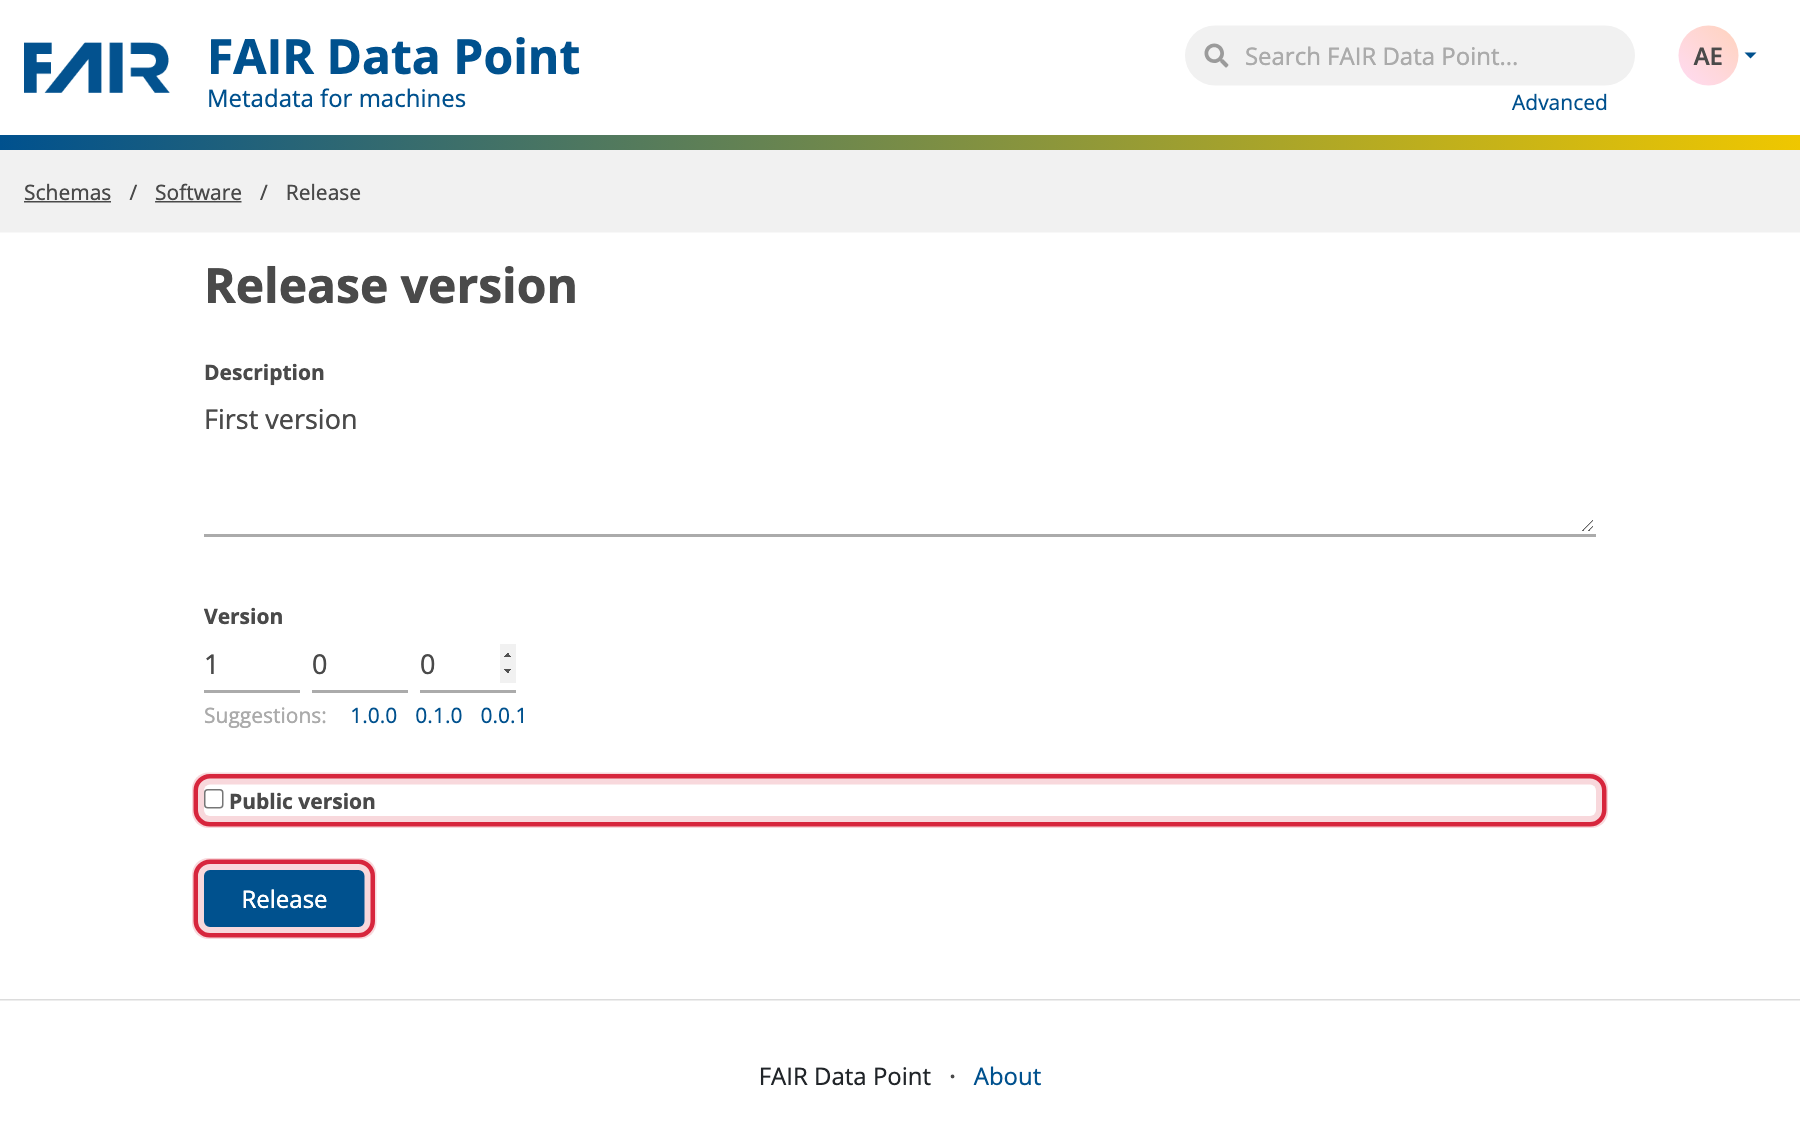
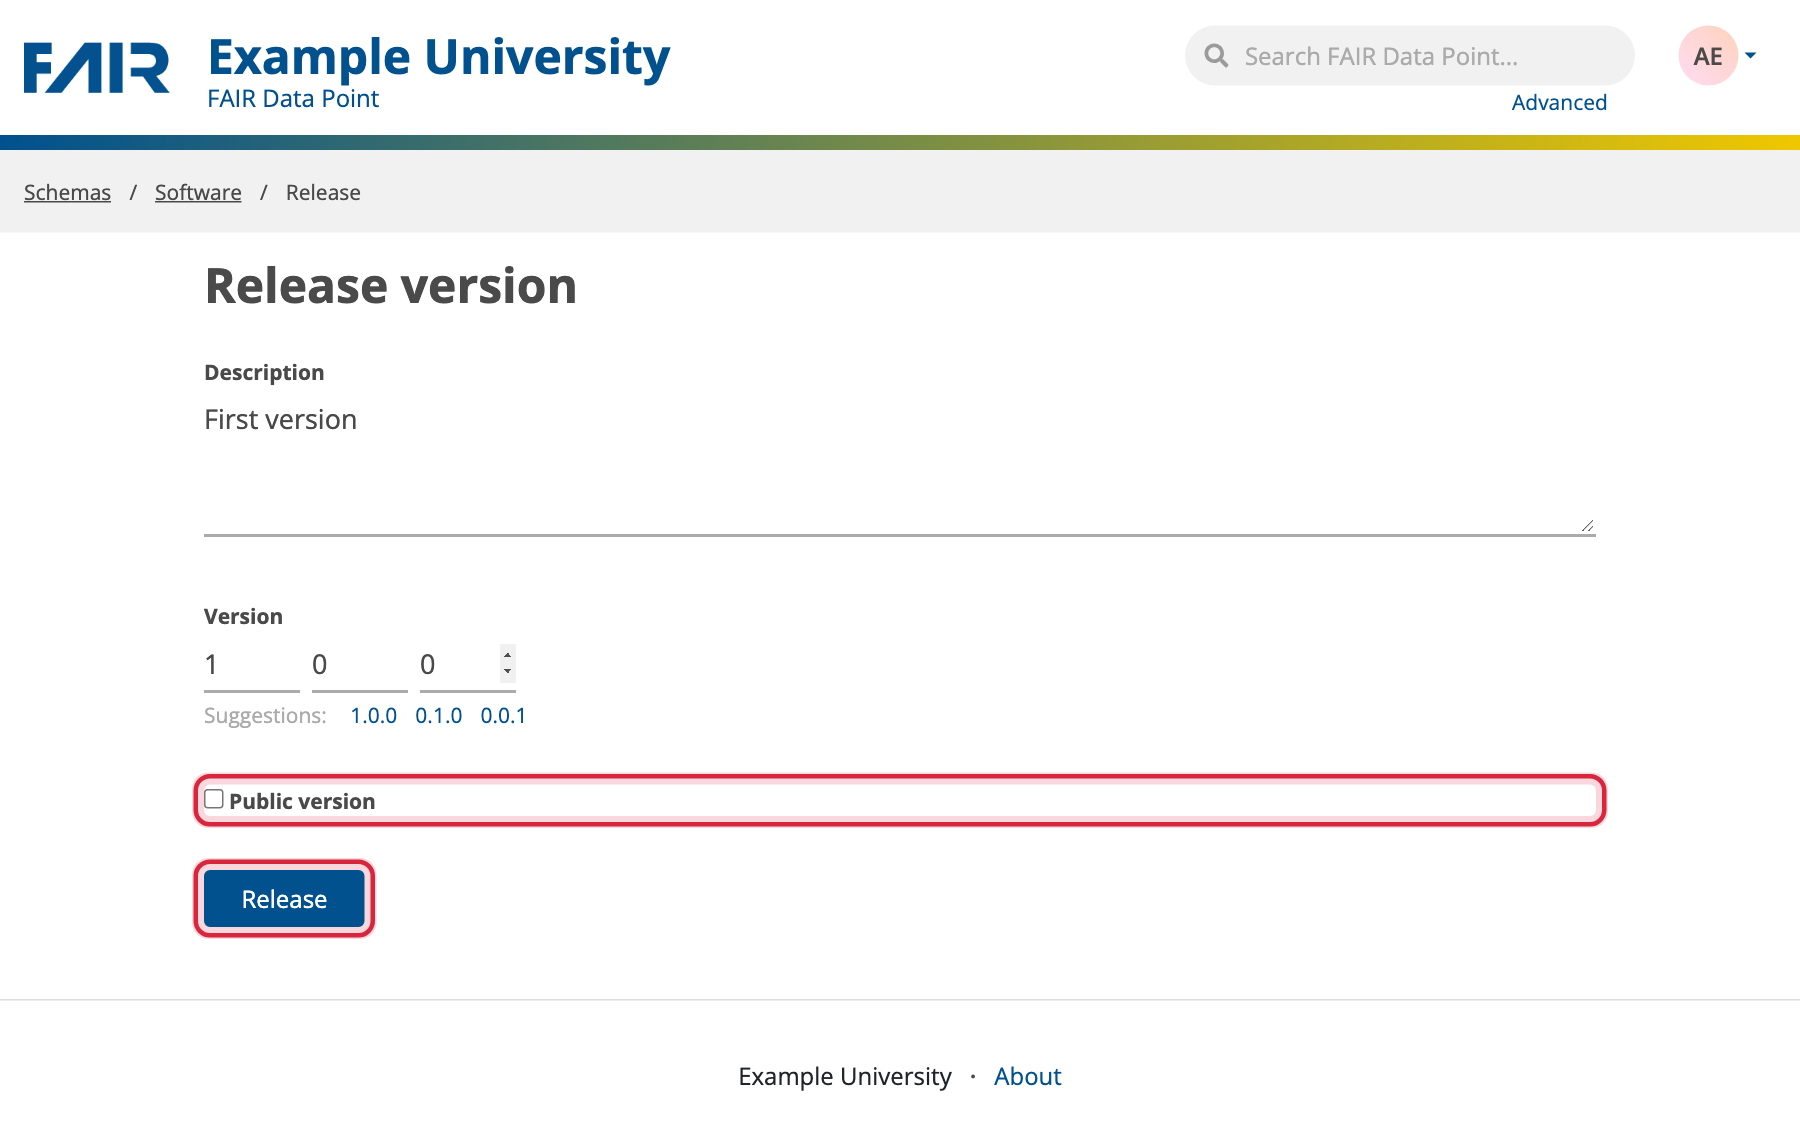
Seed example content before taking the screenshots
The screenshot script now replaces the default root record (lorem ipsum
description, "My FAIR Data Point") with an Example University FDP, sets
the app title in the settings, and creates a published catalog with a
dataset next to the draft catalog used for the Publish step. The
screenshots thereby resemble an FDP in use rather than a fresh deployment.

Changed region(s): [[0.1244, 0.0307, 0.3733, 0.0921], [0.4044, 0.9211, 0.5911, 0.9518]]

diff --git a/scripts/usage-screenshots.py b/scripts/usage-screenshots.py
@@ -43,16 +43,51 @@ HIGHLIGHT_JS = """
 }
 """
 
-CATALOG_TTL = """
+# Example content, so that the screenshots resemble an FDP in use rather than a fresh deployment.
+PREFIXES = """
 @prefix dcat: <http://www.w3.org/ns/dcat#> .
 @prefix dct: <http://purl.org/dc/terms/> .
 @prefix foaf: <http://xmlns.com/foaf/0.1/> .
-<> a dcat:Catalog ;
-    dct:title "Example catalog" ;
-    dct:description "Catalog used for the screenshots in the documentation." ;
+@prefix fdp-o: <https://w3id.org/fdp/fdp-o#> .
+"""
+
+ROOT_TTL = PREFIXES + """
+<> a fdp-o:FAIRDataPoint, fdp-o:MetadataService, dcat:DataService, dcat:Resource ;
+    dct:title "Example University FAIR Data Point" ;
+    dct:description "Metadata of the research datasets and software published by the research groups of Example University. Each catalog belongs to an institute, which maintains its own entries." ;
     dcat:version "1.0" ;
-    dct:publisher [ a foaf:Agent ; foaf:name "Example Organisation" ] ;
+    dct:publisher [ a foaf:Agent ; foaf:name "Example University Library" ] ;
+    dcat:endpointURL <{api}> ;
+    dcat:endpointDescription <{api}/v3/api-docs>, <{api}/swagger-ui.html> .
+"""
+
+PUBLISHED_CATALOG_TTL = PREFIXES + """
+<> a dcat:Catalog ;
+    dct:title "Institute for Climate Studies" ;
+    dct:description "Observational and model data of the Institute for Climate Studies, including the long-term measurement series of the Example Valley field station." ;
+    dcat:version "2.3" ;
+    dct:publisher [ a foaf:Agent ; foaf:name "Institute for Climate Studies, Example University" ] ;
     dct:isPartOf <{api}> .
+"""
+
+DRAFT_CATALOG_TTL = PREFIXES + """
+<> a dcat:Catalog ;
+    dct:title "Materials Science Laboratory" ;
+    dct:description "Measurement data and analysis software of the Materials Science Laboratory, starting with the 2026 thin film experiments." ;
+    dcat:version "1.0" ;
+    dct:publisher [ a foaf:Agent ; foaf:name "Materials Science Laboratory, Example University" ] ;
+    dct:isPartOf <{api}> .
+"""
+
+DATASET_TTL = PREFIXES + """
+<> a dcat:Dataset ;
+    dct:title "Example Valley air temperature, 1996-2025" ;
+    dct:description "Hourly air temperature measured at the Example Valley field station." ;
+    dcat:version "1.2" ;
+    dct:publisher [ a foaf:Agent ; foaf:name "Institute for Climate Studies, Example University" ] ;
+    dcat:theme <http://www.wikidata.org/entity/Q11466> ;
+    dcat:keyword "temperature", "field station" ;
+    dct:isPartOf <{catalog}> .
 """
 
 SOFTWARE_SHAPE = """@prefix : <http://fairdatapoint.org/> .
@@ -105,6 +140,26 @@ class Api:
     def create_record(self, prefix, turtle):
         res = self.call("POST", f"/{prefix}", turtle, content_type="text/turtle", raw=True)
         return res.headers["Location"]
+
+    def publish(self, record):
+        path = record[len(self.base):] or "/"
+        self.call("PUT", path.rstrip("/") + "/meta/state", {"current": "PUBLISHED"})
+
+    def seed(self):
+        """Replace the default root record and add catalogs, so the screenshots show an FDP in use."""
+        self.call("PUT", "/", ROOT_TTL.format(api=self.base), content_type="text/turtle", raw=True)
+        settings = self.call("GET", "/settings")
+        self.call("PUT", "/settings", {
+            "appTitle": "Example University", "appSubtitle": "FAIR Data Point",
+            "metadataMetrics": settings["metadataMetrics"],
+            "ping": {"enabled": settings["ping"]["enabled"], "endpoints": settings["ping"]["endpoints"]},
+            "search": settings["search"], "forms": settings["forms"],
+        })
+        published = self.create_record("catalog", PUBLISHED_CATALOG_TTL.format(api=self.base))
+        dataset = self.create_record("dataset", DATASET_TTL.format(catalog=published))
+        self.publish(published)
+        self.publish(dataset)
+        return self.create_record("catalog", DRAFT_CATALOG_TTL.format(api=self.base))
 
     def schema_uuid(self, name):
         return next(s["uuid"] for s in self.call("GET", "/metadata-schemas") if s["name"] == name)
@@ -168,9 +223,9 @@ def main():
     out.mkdir(parents=True, exist_ok=True)
 
     api = Api(args.api)
-    catalog = api.create_record("catalog", CATALOG_TTL.format(api=args.api))
+    catalog = api.seed()
     catalog_uuid = catalog.rsplit("/", 1)[1]
-    print("catalog", catalog)
+    print("draft catalog", catalog)
 
     with sync_playwright() as pw:
         browser = pw.chromium.launch()
